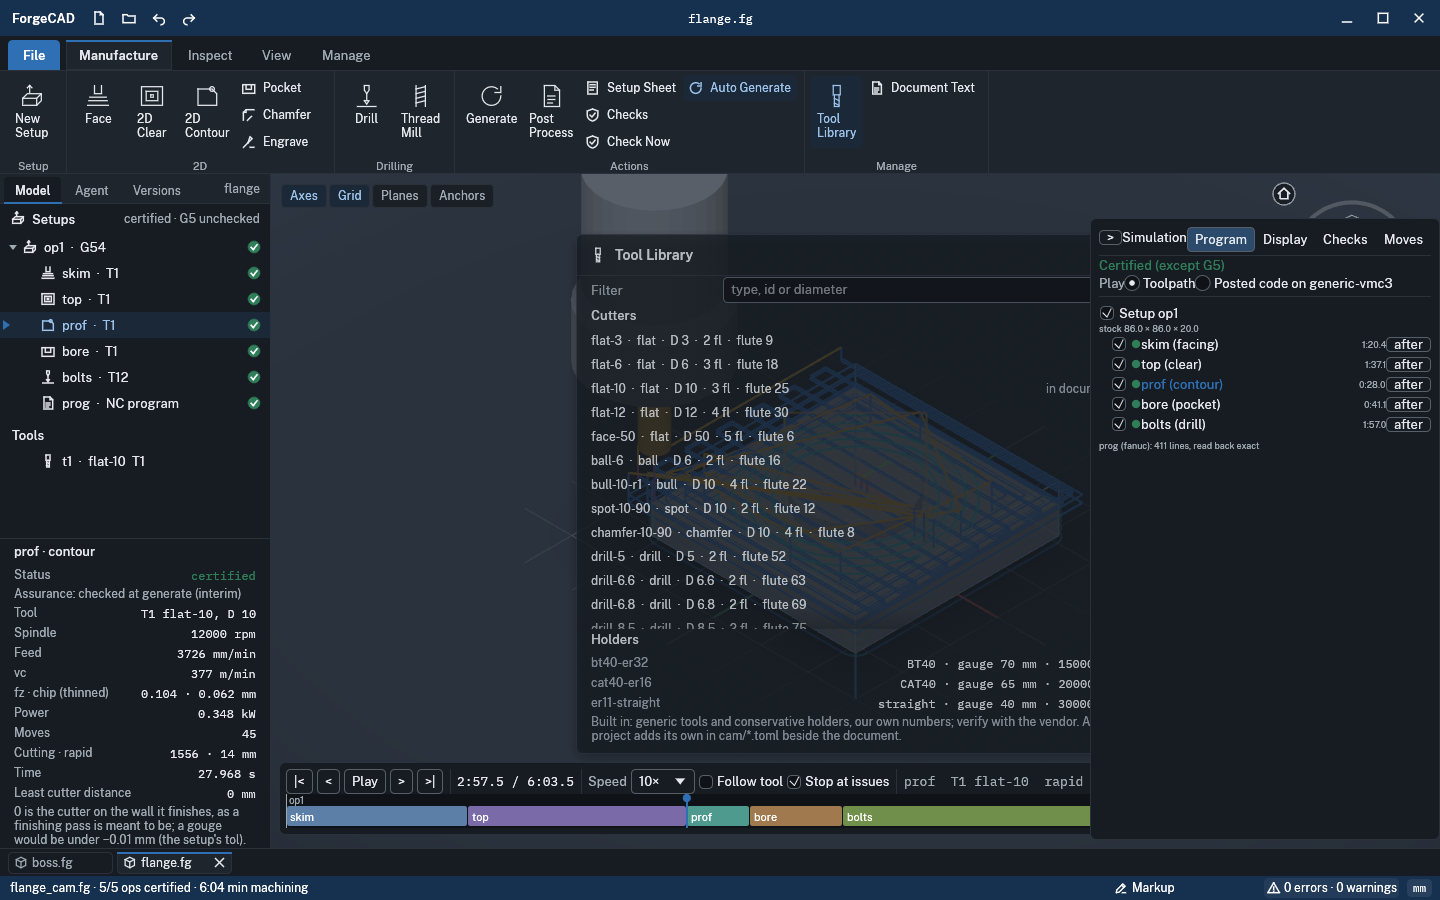
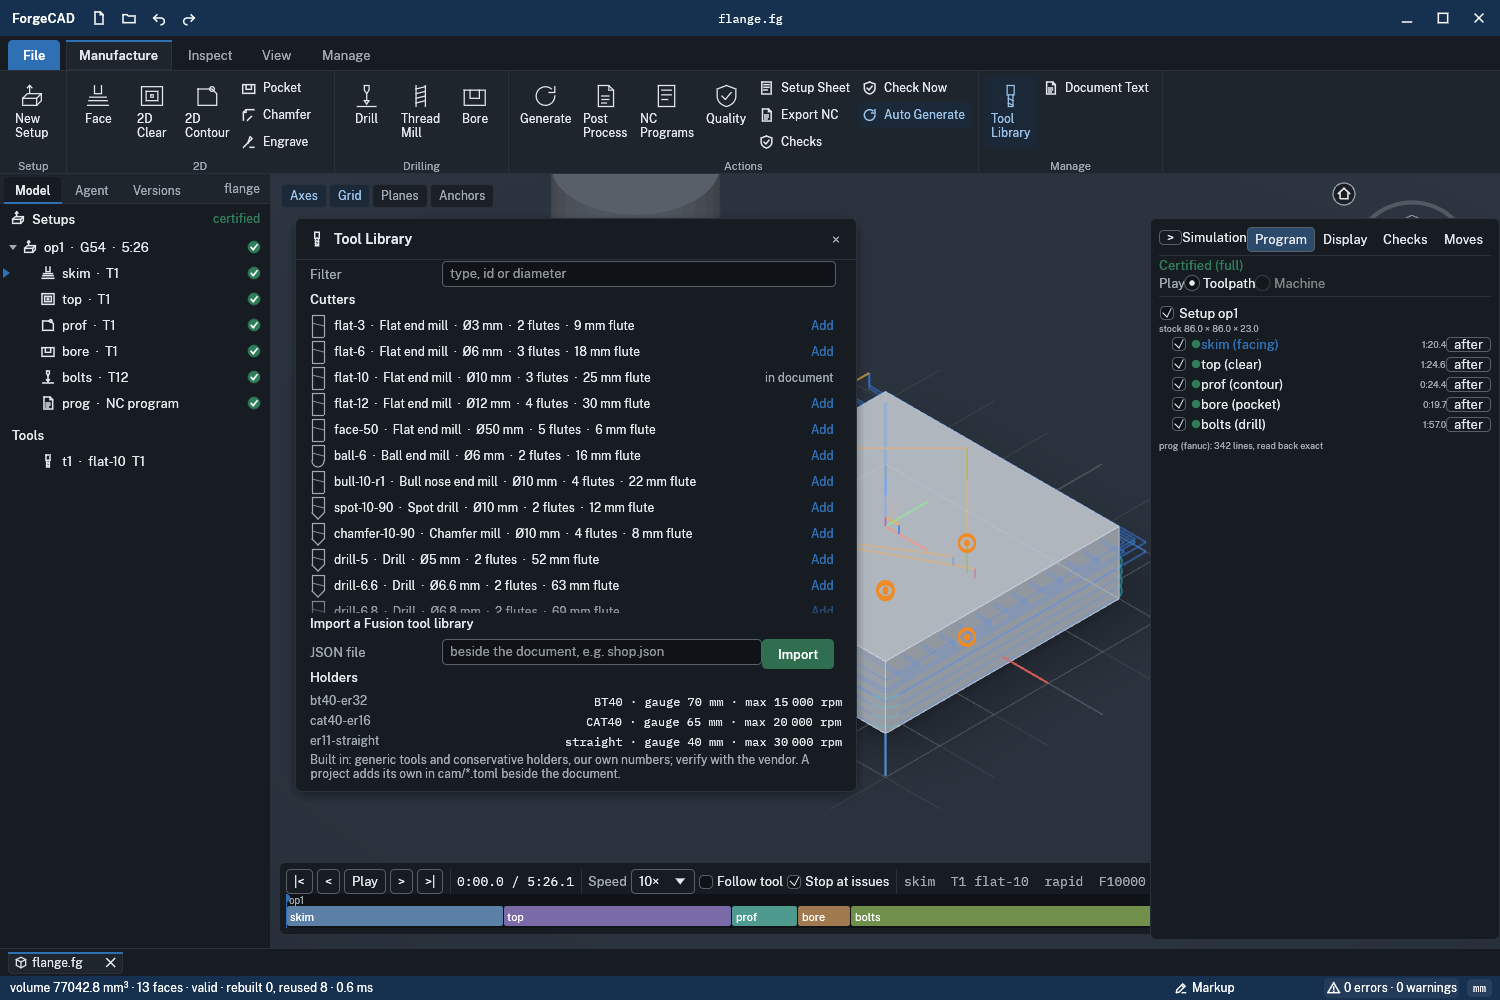
CAM workspace UX P0: one floating window at a time, the section view docked, no milling sim of a lathe document, Tool Library in the view
UX-LEAD's P0s. The floating windows (NC Programs, Quality, Tool Library, Checks, Post Process,
Document Text) open one at a time; the turning section view is docked at the view's bottom right,
half the view at most. A lathe document has no milling simulation (CAM-SIM's panel ran
forge-cam-lang over it: every lathe built-in refused). The Tool Library opens at the view's left,
sized to the view, each cutter a silhouette and 'flat-10 · Flat end mill · Ø10 mm · 3 flutes ·
25 mm flute', holders' rpm grouped. The simulation's markers draw in the view's layer, under the
windows. Test: a turning document's section and NC Programs do not overlap, windows take turns.

Claude-Session: https://claude.ai/code/session_01WJtawySQLKzpnK7g6t2CVB

diff --git a/interface/forge-render/src/shell/cam/ui.rs b/interface/forge-render/src/shell/cam/ui.rs
@@ -1955,14 +1955,15 @@ fn post_window(ctx: &egui::Context, t: &Theme, v: Rect, w: &mut CamWs, places: &
 
 fn tools_window(ctx: &egui::Context, t: &Theme, v: Rect, w: &mut CamWs, places: &mut Places) -> Option<Rect> {
     let mut close = false;
-    let width = 560.0;
+    // within the view (a side panel takes its right): its left, as the other windows open
+    let width = 560.0_f32.min(v.width() - 48.0).max(380.0);
     let mut add: Option<String> = None;
     let r = egui::Window::new("cam-tools")
         .id(egui::Id::unique("cam-tools-window"))
         .title_bar(false)
         .collapsible(false)
         .resizable(false)
-        .default_pos(pos2(v.center().x - width / 2.0, v.top() + 60.0))
+        .default_pos(pos2(v.left() + 24.0, v.top() + 44.0))
         .fixed_size(vec2(width, 0.0))
         .frame(frame(t))
         .constrain_to(crate::shell::dialog_area(ctx))
@@ -1986,10 +1987,11 @@ fn tools_window(ctx: &egui::Context, t: &Theme, v: Rect, w: &mut CamWs, places: 
             let mut child = ui.new_child(egui::UiBuilder::new().max_rect(r));
             egui::ScrollArea::vertical().id_salt("cam-tools-list").auto_shrink([false, false]).show(&mut child, |ui| {
                 for tool in &w.lib.tools {
+                    // what a machinist reads: the id, the kind in words, Ø, flutes, flute length
                     let line = format!(
-                        "{}  ·  {}  ·  D {}  ·  {} fl  ·  flute {}",
+                        "{}  ·  {}  ·  Ø{} mm  ·  {} flutes  ·  {} mm flute",
                         tool.id,
-                        tool.kind.name(),
+                        kind_words(tool.kind),
                         num(tool.dc),
                         tool.nof,
                         num(tool.lcf)
@@ -1997,12 +1999,13 @@ fn tools_window(ctx: &egui::Context, t: &Theme, v: Rect, w: &mut CamWs, places: 
                     if !f.is_empty() && !line.to_lowercase().contains(&f) {
                         continue;
                     }
-                    let (r, resp) = ui.allocate_exact_size(vec2(width - 12.0, 24.0), Sense::click());
+                    let (r, resp) = ui.allocate_exact_size(vec2(width - 12.0, 26.0), Sense::click());
                     if resp.hovered() {
                         ui.painter().rect_filled(r, 0.0, t.hover);
                     }
                     let inu = used.contains(&tool.id);
-                    ui.painter().text(pos2(r.left() + 14.0, r.center().y), Align2::LEFT_CENTER, &line, sans(12.0), t.ink);
+                    tool_glyph(ui.painter(), Rect::from_center_size(pos2(r.left() + 22.0, r.center().y), vec2(12.0, 22.0)), tool.kind, t.ink2);
+                    ui.painter().text(pos2(r.left() + 38.0, r.center().y), Align2::LEFT_CENTER, &line, sans(12.0), t.ink);
                     ui.painter().text(
                         pos2(r.right() - 10.0, r.center().y),
                         Align2::RIGHT_CENTER,
@@ -2042,7 +2045,7 @@ fn tools_window(ctx: &egui::Context, t: &Theme, v: Rect, w: &mut CamWs, places: 
             }
             heading(ui, t, "Holders", width);
             for h in &w.lib.holders {
-                fact(ui, t, &h.id, &format!("{} · gauge {} mm · {} rpm", h.interface, num(h.gauge_length), num(h.max_rpm)), width, t.ink);
+                fact(ui, t, &h.id, &format!("{} · gauge {} mm · max {} rpm", h.interface, num(h.gauge_length), grouped(h.max_rpm)), width, t.ink);
             }
             note(ui, "Built in: generic tools and conservative holders, our own numbers; verify with the vendor. A project adds its own in cam/*.toml beside the document.", width, t.ink2);
             ui.add_space(8.0);
@@ -2181,13 +2184,16 @@ fn section_window(
     places: &mut Places,
 ) -> Option<Rect> {
     let mut close = false;
-    let width = 560.0;
+    // half the view at most: the floating windows keep the other half
+    let width = 560.0_f32.min(v.width() * 0.5).max(360.0);
     let r = egui::Window::new("cam-section")
         .id(egui::Id::unique("cam-section-window"))
         .title_bar(false)
         .collapsible(false)
         .resizable(false)
-        .default_pos(pos2(v.left() + 24.0, v.top() + 44.0))
+        // docked at the view's bottom right: the floating windows open at its top left
+        .pivot(Align2::RIGHT_BOTTOM)
+        .fixed_pos(pos2(v.right() - 16.0, v.bottom() - 16.0))
         .fixed_size(vec2(width, 0.0))
         .frame(frame(t))
         .constrain_to(crate::shell::dialog_area(ctx))
@@ -2916,4 +2922,75 @@ pub fn status_line(w: &CamWs) -> String {
         w.path.rsplit('/').next().unwrap_or(""),
         if w.dirty() { " · unsaved" } else { "" }
     )
+}
+
+/// A tool kind in words.
+fn kind_words(k: forge_tooling::Kind) -> &'static str {
+    use forge_tooling::Kind::*;
+    match k {
+        Flat => "Flat end mill",
+        Ball => "Ball end mill",
+        Bull => "Bull nose end mill",
+        Chamfer => "Chamfer mill",
+        Spot => "Spot drill",
+        Drill => "Drill",
+        Tap => "Tap",
+        ThreadMill => "Thread mill",
+        Reamer => "Reamer",
+        Bore => "Boring bar",
+        Counterbore => "Counterbore",
+        Countersink => "Countersink",
+        Slot => "Slot cutter",
+        Engrave => "Engraver",
+    }
+}
+
+/// A whole number with thin groups of three (15 000).
+fn grouped(v: f64) -> String {
+    let n = v.round() as i64;
+    let s = n.abs().to_string();
+    let mut out = String::new();
+    for (k, c) in s.chars().enumerate() {
+        if k > 0 && (s.len() - k).is_multiple_of(3) {
+            out.push('\u{2009}');
+        }
+        out.push(c);
+    }
+    if n < 0 { format!("-{out}") } else { out }
+}
+
+/// A tool's side silhouette in `r` (shank up, its tip down): flat, ball, point or V.
+fn tool_glyph(p: &egui::Painter, r: Rect, k: forge_tooling::Kind, ink: Color32) {
+    use forge_tooling::Kind::*;
+    let st = Stroke::new(1.2, ink);
+    let (l, rt, top, bot) = (r.left(), r.right(), r.top(), r.bottom());
+    let tip = bot - r.width() * 0.5;
+    // the shank and the flutes' sides
+    p.line_segment([pos2(l, top), pos2(l, tip)], st);
+    p.line_segment([pos2(rt, top), pos2(rt, tip)], st);
+    p.line_segment([pos2(l, top), pos2(rt, top)], st);
+    match k {
+        Ball => {
+            let c = pos2(r.center().x, tip);
+            let n = 8;
+            let pts: Vec<egui::Pos2> = (0..=n)
+                .map(|i| {
+                    let a = std::f32::consts::PI * i as f32 / n as f32;
+                    pos2(c.x - a.cos() * r.width() * 0.5, c.y + a.sin() * r.width() * 0.5)
+                })
+                .collect();
+            p.add(egui::Shape::line(pts, st));
+        }
+        Drill | Spot | Chamfer | Countersink | Engrave => {
+            p.line_segment([pos2(l, tip), pos2(r.center().x, bot)], st);
+            p.line_segment([pos2(rt, tip), pos2(r.center().x, bot)], st);
+        }
+        _ => {
+            p.line_segment([pos2(l, tip), pos2(l, bot)], st);
+            p.line_segment([pos2(rt, tip), pos2(rt, bot)], st);
+            p.line_segment([pos2(l, bot), pos2(rt, bot)], st);
+        }
+    }
+    // flutes
+    p.line_segment([pos2(l, (top + tip) * 0.5), pos2(rt, (top + tip) * 0.5 + 3.0)], Stroke::new(0.8, ink));
 }

diff --git a/interface/forge-render/src/shell/cam/mod.rs b/interface/forge-render/src/shell/cam/mod.rs
@@ -590,9 +590,10 @@ impl CamWs {
             }
             Cmd::StockAt(op) => self.focus.stock_at = op,
             Cmd::PostProcess => {
-                self.post_dlg = match self.post_dlg {
-                    Some(_) => None,
-                    None => Some(PostDlg::default()),
+                let open = self.post_dlg.is_none();
+                self.close_windows();
+                if open {
+                    self.post_dlg = Some(PostDlg::default());
                 }
             }
             Cmd::SetupSheet => match &self.run {
@@ -602,10 +603,27 @@ impl CamWs {
                 }
                 None => self.said = Some("generate first".into()),
             },
-            Cmd::ToolLibrary => self.tools_open = !self.tools_open,
-            Cmd::Programs => self.programs_open = !self.programs_open,
-            Cmd::Quality => self.quality_open = !self.quality_open,
-            Cmd::Checks => self.checks_open = !self.checks_open,
+            // the floating windows: one at a time (each opens where the last was, over the view)
+            Cmd::ToolLibrary => {
+                let open = !self.tools_open;
+                self.close_windows();
+                self.tools_open = open;
+            }
+            Cmd::Programs => {
+                let open = !self.programs_open;
+                self.close_windows();
+                self.programs_open = open;
+            }
+            Cmd::Quality => {
+                let open = !self.quality_open;
+                self.close_windows();
+                self.quality_open = open;
+            }
+            Cmd::Checks => {
+                let open = !self.checks_open;
+                self.close_windows();
+                self.checks_open = open;
+            }
             Cmd::Undo => {
                 if let Some(t) = self.undo.pop() {
                     self.redo.push(std::mem::replace(&mut self.text, t));
@@ -621,13 +639,18 @@ impl CamWs {
             Cmd::Save => self.want_write.push((self.path.clone(), self.text.clone())),
             Cmd::Text(t) => self.set_text(t),
             Cmd::ToggleText => {
-                self.text_open = !self.text_open;
+                let open = !self.text_open;
+                self.close_windows();
+                self.text_open = open;
                 self.text_edit = self.text.clone();
             }
             Cmd::AutoGenerate => self.auto = !self.auto,
             Cmd::SectionView => self.turnview.open = !self.turnview.open,
             Cmd::PostNc(n) => self.post_programs(n.as_deref()),
-            Cmd::PostAt(k) => self.post_dlg = Some(PostDlg { program: k }),
+            Cmd::PostAt(k) => {
+                self.close_windows();
+                self.post_dlg = Some(PostDlg { program: k });
+            }
             Cmd::ExportNc(n) => self.export_programs(n.as_deref()),
             Cmd::ExportSheet => self.export_sheet(),
             Cmd::RepostStale => self.repost_stale(),
@@ -1023,6 +1046,16 @@ impl CamWs {
                 Ok(())
             }
         }
+    }
+
+    /// Every floating window closed (the dialogs of an op or a setup stay: they are edits).
+    pub fn close_windows(&mut self) {
+        self.post_dlg = None;
+        self.tools_open = false;
+        self.programs_open = false;
+        self.quality_open = false;
+        self.checks_open = false;
+        self.text_open = false;
     }
 
     /// The setup dialog's keyword arguments, in the order they are written ("" left out).

diff --git a/interface/forge-render/tests/cam_ui.rs b/interface/forge-render/tests/cam_ui.rs
@@ -372,3 +372,47 @@ fn a_split_program_posts_a_file_per_setup() {
     assert!(nc.lines().count() > 50);
     shot(&mut h, "cam-nc-split");
 }
+
+/// A lathe document: no milling simulation beside it (it would refuse every turning built-in);
+/// the section view docked at the view's bottom right, clear of a floating window; and the
+/// floating windows one at a time.
+#[test]
+fn a_turning_document_docks_its_section_and_windows_take_turns() {
+    let ex = std::path::Path::new(concat!(env!("CARGO_MANIFEST_DIR"), "/../../examples/machined"));
+    let dir = std::env::temp_dir().join(format!("fg-cam-ui-{}-turn", std::process::id()));
+    std::fs::create_dir_all(&dir).unwrap();
+    for f in ["shaft.fg", "shaft_turn.fg"] {
+        std::fs::copy(ex.join(f), dir.join(f)).unwrap();
+    }
+    let mut h = match Headless::new((1500.0, 1000.0), 1.0) {
+        Ok(h) => h,
+        Err(e) => {
+            eprintln!("skipped: {e}");
+            return;
+        }
+    };
+    h.step();
+    h.gui.open(dir.join("shaft_turn.fg").to_str().unwrap());
+    let t = std::time::Instant::now();
+    while t.elapsed().as_secs() < 120 && !h.until(generated) {}
+    assert!(generated(&h.gui), "never generated: {}", h.gui.shell.status);
+    for _ in 0..6 {
+        h.step();
+    }
+    assert!(h.gui.shell.camsim.is_none(), "no milling simulation of a lathe document");
+    assert!(h.click("tool:NC Programs"));
+    h.step();
+    h.step();
+    shot(&mut h, "cam-turn-programs");
+    // the two windows' extents, from every place each puts in it
+    let span = |h: &Headless, pre: &str| {
+        h.gui.shell.places.iter().filter(|p| p.0.starts_with(pre)).map(|p| p.1).reduce(|a, b| a.union(b))
+    };
+    let sec = span(&h, "cam:turn").expect("the section view");
+    let progs = span(&h, "cam:programs").expect("NC Programs");
+    assert!(!sec.intersects(progs), "section {sec:?} under NC Programs {progs:?}");
+    assert!(h.click("tool:Tool Library"));
+    h.step();
+    let w = h.gui.shell.cam.as_ref().unwrap();
+    assert!(w.tools_open && !w.programs_open, "one floating window at a time");
+}

diff --git a/interface/forge-render/src/gui_camsim_panel.rs b/interface/forge-render/src/gui_camsim_panel.rs
@@ -341,8 +341,8 @@ impl Shell {
             };
             let setup = st.setup_now();
             let mut jump = None;
-            let layer = egui::LayerId::new(egui::Order::Middle, egui::Id::unique("camsim:marks"));
-            let painter = ctx.layer_painter(layer);
+            // in the view's own layer: under every window and panel drawn over the view
+            let painter = ctx.layer_painter(egui::LayerId::background()).with_clip_rect(v);
             for (k, m) in st.sim.markers.iter().enumerate() {
                 if m.setup != setup || m.t > st.t + 1e-9 && m.severe() && st.played_only {
                     continue;
@@ -362,7 +362,7 @@ impl Shell {
                 let hit = Rect::from_center_size(p, vec2(16.0, 16.0));
                 let resp = egui::Area::new(id)
                     .fixed_pos(hit.min)
-                    .order(egui::Order::Middle)
+                    .order(egui::Order::Background)
                     .show(ctx, |ui| {
                         let (_, r) = ui.allocate_exact_size(hit.size(), Sense::click());
                         r.on_hover_text(&m.text)

diff --git a/interface/forge-render/src/gui_camsim.rs b/interface/forge-render/src/gui_camsim.rs
@@ -60,6 +60,17 @@ impl Gui {
             }
         }
         let Some(w) = &self.shell.cam else { return };
+        // a lathe document: the simulation is milling's (forge-cam-lang): nothing to show, rather
+        // than milling's refusals of every turning built-in (the section view is turning's)
+        if w.turning() {
+            if self.shell.camsim.take().is_some() {
+                self.shell.camsim_job.focus = None;
+                if let Some(v) = &mut self.view {
+                    v.dirty = true;
+                }
+            }
+            return;
+        }
         // the workspace has a run of text the simulation is not of: simulate it
         if let Some(run) = &w.run {
             // keyed by the text and what its run came to: the same text run again with the
